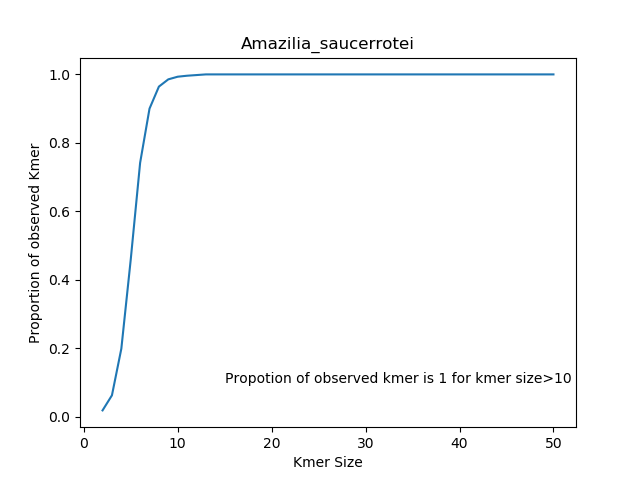
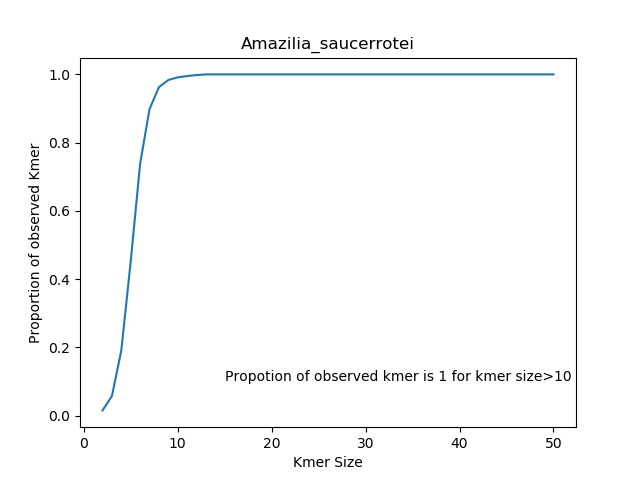
Final Version

diff --git a/seq_complexity.py b/seq_complexity.py
@@ -1,3 +1,11 @@
+#!/usr/bin/python
+#title           :seq_complexity.py
+#description     :This will calculate linguistic complexity a DNA sequences in a file.
+#author          :Tanjil Ahmed
+#date            :05/08/2018
+#version         :1.0
+#usage           :python seq_complexity.py <filename.fasta>
+#==============================================================================
 import sys
 import pandas as pd
 import os
@@ -13,14 +21,15 @@ class Seq(object):
             if not kmer in counters:
                 counters[kmer]=0
             counters[kmer]+=1
+        return counters
     def pdf(self,ksize,observed_kmer,possible_kmer,df):
         global row
         proportion=observed_kmer/possible_kmer
         df[row]=[ksize,observed_kmer,possible_kmer,proportion]
         row=row+1
     def plot(self,df,fname):
-        print(df)
-        plt.plot(df['ksize'],df['Observed_proportion'])
+        #print(df)
+        plt.plot(df['ksize'][1:50],df['Observed_proportion'][1:50])
         plt.xlabel('Kmer Size')
         plt.ylabel('Proportion of observed Kmer')
         plt.title(fname)
@@ -31,69 +40,83 @@ class Seq(object):
         if not os.path.exists(path):
             os.makedirs(path)
         gname=os.path.join(path,gname)
+        plt.text(15,.1,'Propotion of observed kmer is 1 for kmer size>10')
         plt.savefig(gname)
-        #plt.show()
-        #print(df['ksize'])
-    def ling_complexity(self,val1,val2):
-        complexity=val1/val2
+        plt.clf()
+
+    def ling_complexity(self,df):
+        column1_sum=df['observed_kmers'].sum()
+        column2_sum=df['possible_kmers'].sum()
+        complexity=column1_sum/column2_sum
         return complexity
 
 
-f = open(sys.argv[1],"r")
-fasta = f.readlines()
-lc=pd.DataFrame()
-row_lc=0
-dir = os.getcwd()
-dffolder='\\Panda DataFrame'
-lcfolder='\\Linguistic Complexity'
-plotfolder='Plot'
-for line_number,line in enumerate(fasta):
-    if line_number%3==0:
-        fname=line.strip('>')
-        fname=fname.strip('\n')
-        print(fname)
-    if line_number%3==1:
-        row=0
-        df=pd.DataFrame()
-        sequence=line.rstrip()
-        print(sequence)
-        seq=Seq(sequence)
-        for j in range(1,len(sequence)+1):
-            counters={}
-            seq.count_kmers(j,counters)
-            observed_kmer=len(counters)
-            if j==1:
-                possible_kmer=4**j
-            else:
-                possible_kmer=len(sequence)-j+1
-            seq.pdf(j,observed_kmer,possible_kmer,df)
-            #print(row)
 
-        #print(counters)
-        #seq.pdf()
-        df=df.T
-        df.columns=['ksize','observed_kmers','possible_kmers','Observed_proportion']
-        filename=fname+".txt"
-        #dir1 = os.path.join(dir,dffolder)
-        #print(dir1)
-        dfpath=dir+dffolder
-        if not os.path.exists(dfpath):
-            os.makedirs(dfpath)
-        filename=os.path.join(dfpath,filename)
-        df.to_csv(filename, index=False, sep=' ', header=True)
-        #print(df)
-        column1_sum=df['observed_kmers'].sum()
-        column2_sum=df['possible_kmers'].sum()
-        print(column1_sum)
-        print(column2_sum)
-        seq.plot(df,fname)
-        lcomplexity=seq.ling_complexity(column1_sum,column2_sum)
-        lc[row_lc]=[fname,lcomplexity]
-        row_lc=row_lc+1
-lc=lc.T
-lc.columns=['Species','Linguistic Complexity']
-lcpath=dir+lcfolder
-if not os.path.exists(lcpath):
-    os.makedirs(lcpath)
-lcfile=os.path.join(lcpath,"linguistic_complexity.txt")
-lc.to_csv(lcfile, index=False, sep=' ', header=True)
+def file_format_check(fasta):
+        string="ACTGRYM"
+        for line_number,line in enumerate(fasta):
+            if line_number%3==1:
+                sequence=line.rstrip()
+                if any(c not in string for c in sequence):
+                    return 0
+        return 1
+
+
+if __name__=="__main__":
+    if len(sys.argv) == 1:
+        f=open("nd2.fasta","r")
+    else:
+        f = open(sys.argv[1],"r")
+    fasta = f.readlines()
+    lc=pd.DataFrame()
+    row_lc=0
+    dir = os.getcwd()
+    dffolder='\\Panda DataFrame'
+    lcfolder='\\Linguistic Complexity'
+    plotfolder='\\Plot'
+    if file_format_check(fasta)==True:
+        print("File contains appropriate character")
+        for line_number,line in enumerate(fasta):
+            if line_number%3==0:
+                fname=line.strip('>')
+                fname=fname.strip('\n')
+                print(fname)
+            if line_number%3==1:
+                row=0
+                df=pd.DataFrame()
+                sequence=line.rstrip()
+                sequence=sequence.replace("R","A")
+                sequence=sequence.replace("Y","T")
+                sequence=sequence.replace("M","C")
+                seq=Seq(sequence)
+                for j in range(1,len(sequence)+1):
+                    counters={}
+                    seq.count_kmers(j,counters)
+                    observed_kmer=len(counters)
+                    if j==1:
+                        possible_kmer=4**j
+                    else:
+                        possible_kmer=len(sequence)-j+1
+                    seq.pdf(j,observed_kmer,possible_kmer,df)
+
+                df=df.T
+                df.columns=['ksize','observed_kmers','possible_kmers','Observed_proportion']
+                filename=fname+".txt"
+                dfpath=dir+dffolder
+                if not os.path.exists(dfpath):
+                    os.makedirs(dfpath)
+                filename=os.path.join(dfpath,filename)
+                df.to_csv(filename, index=False, sep=' ', header=True)
+                seq.plot(df,fname)
+                lcomplexity=seq.ling_complexity(df)
+                lc[row_lc]=[fname,lcomplexity]
+                row_lc=row_lc+1
+        lc=lc.T
+        lc.columns=['Species','Linguistic Complexity']
+        lcpath=dir+lcfolder
+        if not os.path.exists(lcpath):
+            os.makedirs(lcpath)
+        lcfile=os.path.join(lcpath,"linguistic_complexity.txt")
+        lc.to_csv(lcfile, index=False, sep=' ', header=True)
+    else:
+        print ("File doesn't contain appropriate base")

diff --git a/README.md b/README.md
@@ -1,2 +1,77 @@
-# DSP539-Assignment-Python
-Finding the linguistic complexity of each sequence in a file of sequences
+
+# DSP 539: Python Assignment
+## Calculate Linguistic Complexity of  each sequence in a file of sequences
+
+### _Input_: 
+##### DNA Sequence (Format:Fasta)
+&nbsp;
+### _Output_: 
+##### Linguistic Complexity of each sequence in a file of sequences
+##### Generates K-mer Table
+##### Generates graph from the data frame of the proportion of each kmer observed.
+
+&nbsp;
+
+### _Prerequisite_:
+##### Python Packages: sys, pandas , os, matplotlib
+##### Software: Anaconda (I used); You can choose any relevent software at your convenience
+&nbsp;
+
+### _How to run the program (Anaconda)_:
+##### Go to Anaconda prompt and write  "python < FileName.py > < FileName.fasta >"
+##### For example: python seq_complexity.py nd2.fasta
+##### For running test go to command prompt and write "pytest" and then ENTER
+&nbsp;
+
+### _Code Description-1_:
+#### File: seq_complexity.py 
+##### Methods:
+###### a. count_kmers(): 
+         - counts total number of observed kmer of size k for each sequences
+###### b. pdf(): 
+         - creates panda dataframe for each sequence from kmer size 1 to length of the sequence
+###### c. plot(): 
+         - creates graph for each generated panda dataframe 
+         - kmer size upto 50 is shown in the plot
+         - For kmer size > 50 
+###### d. ling_complexity()
+         - Calculate liguistic complexityof a DAN sequences
+###### e. file_format_check()
+         - check if the input DNA sequences contain characters from {A,C,T,G,R,Y,M}
+##### Output: 
+###### a. linguistic complexity:
+         - saved in "Linguistic Complexity" folder in ".txt" format
+         - Fromat:          
+|      Species      |Linguistic Complexity |
+|:-----------------:|:--------------------:|
+|Urosticte_benjamani|  0.992985563885059   |
+
+###### b. Panda Dataframe:
+         - saved in "Panda DataFrame" folder in ".txt" format
+         - Fromat:          
+|ksize|observed_kmers|possible_kmers|Observed_proportion |
+|:---:|:------------:|:------------:|:------------------:|
+|  1  |       4      |      4       |         1          |
+
+###### c. Plot:
+         - saved in "Plot" folder in ".png" format
+         - Fromat:          
+
+<img src="Plot/Adelomyia_melanogenys.png">
+$$Propotion\ of\ observed\ kmers=\begin{equation*}\frac{observed\_kmers}{possible\_kmers}\end{equation*}$$
+##### Notes:
+###### 1. Plot is generated for each species and named according to species
+&nbsp;
+
+### Code Description-2:
+#### File: test_seq_complexity.py 
+##### Methods:
+###### a. test_file_is_Empty(): 
+         - check if the input file is empty or not 
+###### b. test_file_format_check: 
+         - Check th DNA sequence contains appropriate character(A,C,T,G,R,Y,M) only
+###### c. test_count_kmers(): 
+         - check the sequence generate desired kmer count 
+         - still development phase; might not work some cases
+         - will be updated in next version
+
